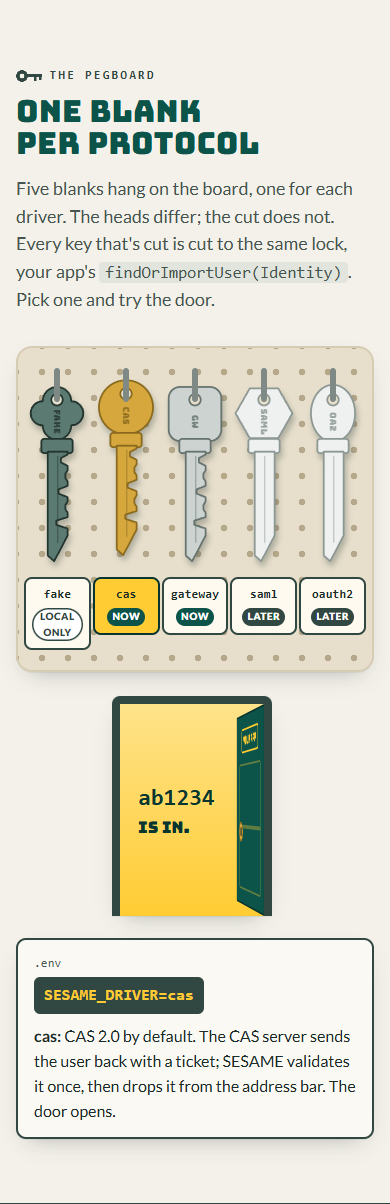
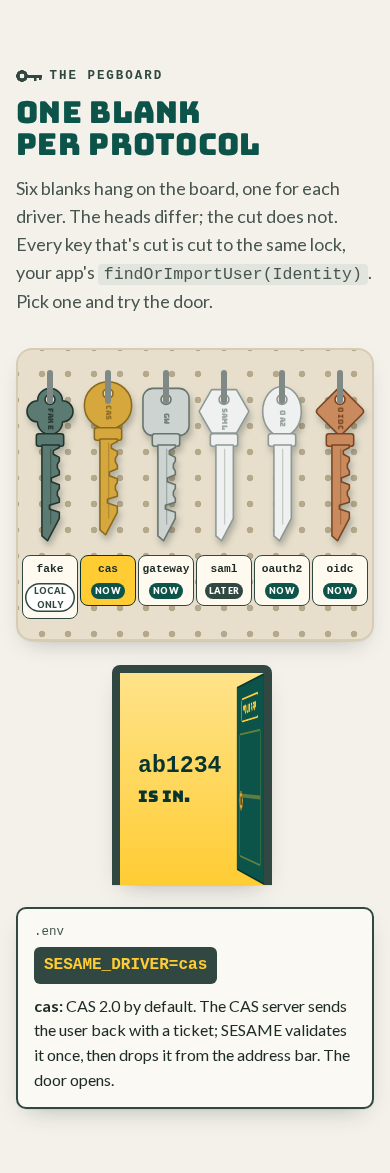
site: oidc peg on the pegboard, oauth2 chip fixed, README art regenerated
Adds the oidc key (copper, diamond head) and readout line, six across on the board (two rows of three under 380px), the oauth2 status chip on the current class, and regenerates the drivers badge, the pegboard crop and the gallery with alt text to match.

diff --git a/site/index.html b/site/index.html
@@ -28,7 +28,7 @@
 </script>
 </head>
 <body>
-<svg class="sprite" aria-hidden="true" focusable="false" width="0" height="0"><symbol id="key-fake" viewBox="0 0 260 90"><g class="k-body"><path d="M44,8 a17,17 0 0 1 17,17 a17,17 0 0 1 0,40 a17,17 0 0 1 -34,0 a17,17 0 0 1 0,-40 a17,17 0 0 1 17,-17 Z"/><rect x="80" y="23" width="20" height="44" rx="4"/><path d="M98,30 L102,30 L107,39.6 L113,39.6 L118,30 L124,30 L129,33.2 L135,33.2 L140,30 L146,30 L151,42.8 L157,42.8 L162,30 L168,30 L173,33.2 L179,33.2 L184,30 L190,30 L195,46.0 L201,46.0 L206,30 L216,30 L252,49 L244,58 L98,58 Z"/></g><circle class="k-hole" cx="25" cy="45" r="8"/><path class="k-groove" d="M104,44 H226"/><text class="k-stamp" x="56" y="49" text-anchor="middle">FAKE</text></symbol><symbol id="key-cas" viewBox="0 0 260 90"><g class="k-body"><circle cx="44" cy="45" r="38"/><rect x="80" y="23" width="20" height="44" rx="4"/><path d="M98,30 L102,30 L107,39.6 L113,39.6 L118,30 L124,30 L129,33.2 L135,33.2 L140,30 L146,30 L151,42.8 L157,42.8 L162,30 L168,30 L173,33.2 L179,33.2 L184,30 L190,30 L195,46.0 L201,46.0 L206,30 L216,30 L252,49 L244,58 L98,58 Z"/></g><circle class="k-hole" cx="25" cy="45" r="8"/><path class="k-groove" d="M104,44 H226"/><text class="k-stamp" x="56" y="49" text-anchor="middle">CAS</text></symbol><symbol id="key-gateway" viewBox="0 0 260 90"><g class="k-body"><rect x="7" y="8" width="76" height="74" rx="16"/><rect x="80" y="23" width="20" height="44" rx="4"/><path d="M98,30 L102,30 L107,39.6 L113,39.6 L118,30 L124,30 L129,33.2 L135,33.2 L140,30 L146,30 L151,42.8 L157,42.8 L162,30 L168,30 L173,33.2 L179,33.2 L184,30 L190,30 L195,46.0 L201,46.0 L206,30 L216,30 L252,49 L244,58 L98,58 Z"/></g><circle class="k-hole" cx="25" cy="45" r="8"/><path class="k-groove" d="M104,44 H226"/><text class="k-stamp" x="56" y="49" text-anchor="middle">GW</text></symbol><symbol id="key-saml" viewBox="0 0 260 90"><g class="k-body"><path d="M44,5 L79,25 L79,65 L44,85 L9,65 L9,25 Z"/><rect x="80" y="23" width="20" height="44" rx="4"/><path d="M98,30 L216,30 L252,49 L244,58 L98,58 Z"/></g><circle class="k-hole" cx="25" cy="45" r="8"/><path class="k-groove" d="M104,44 H226"/><text class="k-stamp" x="56" y="49" text-anchor="middle">SAML</text></symbol><symbol id="key-oauth2" viewBox="0 0 260 90"><g class="k-body"><ellipse cx="44" cy="45" rx="40" ry="31"/><rect x="80" y="23" width="20" height="44" rx="4"/><path d="M98,30 L216,30 L252,49 L244,58 L98,58 Z"/></g><circle class="k-hole" cx="25" cy="45" r="8"/><path class="k-groove" d="M104,44 H226"/><text class="k-stamp" x="56" y="49" text-anchor="middle">OA2</text></symbol></svg>
+<svg class="sprite" aria-hidden="true" focusable="false" width="0" height="0"><symbol id="key-fake" viewBox="0 0 260 90"><g class="k-body"><path d="M44,8 a17,17 0 0 1 17,17 a17,17 0 0 1 0,40 a17,17 0 0 1 -34,0 a17,17 0 0 1 0,-40 a17,17 0 0 1 17,-17 Z"/><rect x="80" y="23" width="20" height="44" rx="4"/><path d="M98,30 L102,30 L107,39.6 L113,39.6 L118,30 L124,30 L129,33.2 L135,33.2 L140,30 L146,30 L151,42.8 L157,42.8 L162,30 L168,30 L173,33.2 L179,33.2 L184,30 L190,30 L195,46.0 L201,46.0 L206,30 L216,30 L252,49 L244,58 L98,58 Z"/></g><circle class="k-hole" cx="25" cy="45" r="8"/><path class="k-groove" d="M104,44 H226"/><text class="k-stamp" x="56" y="49" text-anchor="middle">FAKE</text></symbol><symbol id="key-cas" viewBox="0 0 260 90"><g class="k-body"><circle cx="44" cy="45" r="38"/><rect x="80" y="23" width="20" height="44" rx="4"/><path d="M98,30 L102,30 L107,39.6 L113,39.6 L118,30 L124,30 L129,33.2 L135,33.2 L140,30 L146,30 L151,42.8 L157,42.8 L162,30 L168,30 L173,33.2 L179,33.2 L184,30 L190,30 L195,46.0 L201,46.0 L206,30 L216,30 L252,49 L244,58 L98,58 Z"/></g><circle class="k-hole" cx="25" cy="45" r="8"/><path class="k-groove" d="M104,44 H226"/><text class="k-stamp" x="56" y="49" text-anchor="middle">CAS</text></symbol><symbol id="key-gateway" viewBox="0 0 260 90"><g class="k-body"><rect x="7" y="8" width="76" height="74" rx="16"/><rect x="80" y="23" width="20" height="44" rx="4"/><path d="M98,30 L102,30 L107,39.6 L113,39.6 L118,30 L124,30 L129,33.2 L135,33.2 L140,30 L146,30 L151,42.8 L157,42.8 L162,30 L168,30 L173,33.2 L179,33.2 L184,30 L190,30 L195,46.0 L201,46.0 L206,30 L216,30 L252,49 L244,58 L98,58 Z"/></g><circle class="k-hole" cx="25" cy="45" r="8"/><path class="k-groove" d="M104,44 H226"/><text class="k-stamp" x="56" y="49" text-anchor="middle">GW</text></symbol><symbol id="key-saml" viewBox="0 0 260 90"><g class="k-body"><path d="M44,5 L79,25 L79,65 L44,85 L9,65 L9,25 Z"/><rect x="80" y="23" width="20" height="44" rx="4"/><path d="M98,30 L216,30 L252,49 L244,58 L98,58 Z"/></g><circle class="k-hole" cx="25" cy="45" r="8"/><path class="k-groove" d="M104,44 H226"/><text class="k-stamp" x="56" y="49" text-anchor="middle">SAML</text></symbol><symbol id="key-oauth2" viewBox="0 0 260 90"><g class="k-body"><ellipse cx="44" cy="45" rx="40" ry="31"/><rect x="80" y="23" width="20" height="44" rx="4"/><path d="M98,30 L216,30 L252,49 L244,58 L98,58 Z"/></g><circle class="k-hole" cx="25" cy="45" r="8"/><path class="k-groove" d="M104,44 H226"/><text class="k-stamp" x="56" y="49" text-anchor="middle">OA2</text></symbol><symbol id="key-oidc" viewBox="0 0 260 90"><g class="k-body"><path d="M48.2,9.2 L79.8,40.8 Q84,45 79.8,49.2 L48.2,80.8 Q44,85 39.8,80.8 L8.2,49.2 Q4,45 8.2,40.8 L39.8,9.2 Q44,5 48.2,9.2 Z"/><rect x="80" y="23" width="20" height="44" rx="4"/><path d="M98,30 L102,30 L107,39.6 L113,39.6 L118,30 L124,30 L129,33.2 L135,33.2 L140,30 L146,30 L151,42.8 L157,42.8 L162,30 L168,30 L173,33.2 L179,33.2 L184,30 L190,30 L195,46.0 L201,46.0 L206,30 L216,30 L252,49 L244,58 L98,58 Z"/></g><circle class="k-hole" cx="25" cy="45" r="8"/><path class="k-groove" d="M104,44 H226"/><text class="k-stamp" x="56" y="49" text-anchor="middle">OIDC</text></symbol></svg>
 <a class="wsu-skip-link" href="#main">Skip to content</a>
 
 <header class="shop-head">
@@ -118,7 +118,7 @@
       <div class="head">
         <p class="kicker">The pegboard</p>
         <h2 id="keys-title">One blank per protocol</h2>
-        <p>Five blanks hang on the board, one for each driver. The heads differ; the cut does not. Every key that's cut is cut to the same lock, your app's <code>findOrImportUser(Identity)</code>. Pick one and try the door.</p>
+        <p>Six blanks hang on the board, one for each driver. The heads differ; the cut does not. Every key that's cut is cut to the same lock, your app's <code>findOrImportUser(Identity)</code>. Pick one and try the door.</p>
       </div>
 
       <div class="shop">
@@ -147,7 +147,12 @@
           <button class="peg peg--blank" type="button" data-driver="oauth2" aria-pressed="false" style="--i:4">
             <span class="peg__hook" aria-hidden="true"></span>
             <svg class="peg__key" viewBox="0 0 90 260" aria-hidden="true" focusable="false"><use href="#key-oauth2" width="260" height="90" transform="translate(90,0) rotate(90)"/></svg>
-            <span class="peg__tag"><span class="peg__name">oauth2</span><span class="peg__status peg__status--later">Now</span></span>
+            <span class="peg__tag"><span class="peg__name">oauth2</span><span class="peg__status">Now</span></span>
+          </button>
+          <button class="peg" type="button" data-driver="oidc" aria-pressed="false" style="--i:5">
+            <span class="peg__hook" aria-hidden="true"></span>
+            <svg class="peg__key" viewBox="0 0 90 260" aria-hidden="true" focusable="false"><use href="#key-oidc" width="260" height="90" transform="translate(90,0) rotate(90)"/></svg>
+            <span class="peg__tag"><span class="peg__name">oidc</span><span class="peg__status">Now</span></span>
           </button>
         </div>
 

diff --git a/site/assets/sesame.css b/site/assets/sesame.css
@@ -39,6 +39,8 @@
   --brass-dark: #8a6a1e;
   --nickel: #ccd3d0;
   --nickel-dark: #66736e;
+  --copper: #c98a5e;         /* the oidc key */
+  --copper-dark: #7a4524;
   --tag: #fffaf0;
   --shadow: 0 1px 0 rgba(29, 43, 39, .06), 0 10px 24px -12px rgba(29, 43, 39, .35);
   --sign: "Bungee", "Lato", "Arial Black", sans-serif;
@@ -323,7 +325,7 @@ h3 { font-size: 1.2rem; font-weight: 900; }
   gap: clamp(24px, 4vw, 48px); align-items: start;
 }
 .board {
-  display: grid; grid-template-columns: repeat(5, minmax(0, 1fr)); gap: 8px;
+  display: grid; grid-template-columns: repeat(6, minmax(0, 1fr)); gap: 8px;
   padding: 26px 18px 22px;
   background-color: var(--peg);
   background-image: radial-gradient(circle, var(--peg-hole) 0 3px, transparent 3.6px);
@@ -337,6 +339,7 @@ h3 { font-size: 1.2rem; font-weight: 900; }
   --k: var(--brass); --kd: var(--brass-dark);
 }
 .peg[data-driver="gateway"] { --k: var(--nickel); --kd: var(--nickel-dark); }
+.peg[data-driver="oidc"] { --k: var(--copper); --kd: var(--copper-dark); }
 .peg[data-driver="fake"] { --k: #5b7a72; --kd: #23352f; --hole: var(--peg); }
 .peg--blank { --k: #eef1ef; --kd: #8d9894; }
 .peg__hook {
@@ -419,6 +422,7 @@ h3 { font-size: 1.2rem; font-weight: 900; }
 .door__key svg { display: block; width: 100%; height: auto; overflow: visible; }
 .door__key svg use { transform-origin: 50% 50%; transition: transform .35s ease; }
 .lock[data-driver="gateway"] .door__key { --k: var(--nickel); --kd: var(--nickel-dark); }
+.lock[data-driver="oidc"] .door__key { --k: var(--copper); --kd: var(--copper-dark); }
 .lock[data-driver="fake"] .door__key { --k: #5b7a72; --kd: #23352f; }
 .lock[data-driver="saml"] .door__key, .lock[data-driver="oauth2"] .door__key { --k: #eef1ef; --kd: #8d9894; }
 
@@ -725,10 +729,11 @@ h3 { font-size: 1.2rem; font-weight: 900; }
   .lock { grid-template-columns: minmax(0, 1fr); }
   .door { width: 160px; height: 220px; margin-left: 96px; margin-right: 0; }
   .door__key { width: 100px; }
-  .board { grid-template-columns: repeat(5, minmax(0, 1fr)); padding: 22px 8px 16px; gap: 2px; }
+  .board { grid-template-columns: repeat(6, minmax(0, 1fr)); padding: 22px 6px 16px; gap: 2px; }
   .peg { padding-inline: 0; }
-  .peg__name { font-size: .78rem; }
-  .peg__status { font-size: .62rem; padding: 1px 5px; }
+  .peg__tag { padding: 5px 2px 6px; border-width: 1.5px; }
+  .peg__name { font-size: .7rem; }
+  .peg__status { font-size: .56rem; padding: 1px 4px; letter-spacing: .02em; }
   .steps { grid-template-columns: minmax(0, 1fr); gap: 6px; }
   .step { padding: 8px 10px; font-size: .9rem; gap: 10px; }
   .step__n { width: 26px; height: 26px; font-size: .8rem; }
@@ -746,7 +751,9 @@ h3 { font-size: 1.2rem; font-weight: 900; }
 }
 @media (max-width: 380px) {
   .door { margin-left: 84px; width: 150px; }
-  .peg__status { font-size: .56rem; letter-spacing: .02em; }
+  /* Six across gets crowded on the smallest phones: two rows of three. */
+  .board { grid-template-columns: repeat(3, minmax(0, 1fr)); gap: 14px 6px; padding-inline: 8px; }
+  .peg__name { font-size: .78rem; }
   .copy-btn { min-width: 72px; padding: 0 12px; }
 }
 @media (max-width: 419px) {

diff --git a/site/assets/sesame.js b/site/assets/sesame.js
@@ -60,7 +60,8 @@
 
   /* ------------------------------------------------------------ 4. the lock */
   // Driver notes follow README.md ("Drivers", "The cas driver", "The gateway
-  // driver"). Drivers that are not built yet show no config line.
+  // driver", "oauth2 with Entra", "The oidc driver (Entra sign-in)"). Drivers
+  // that are not built yet show no config line.
   var DRIVERS = {
     fake: { line: "SESAME_DRIVER=fake", opens: true,
       note: "<strong>fake:</strong> local development and tests only. It refuses to boot in production, so this door only opens on your own machine." },
@@ -71,7 +72,9 @@
     saml: { line: null, opens: false,
       note: "<strong>saml:</strong> later, as a direct SAML service provider. The blank hangs on the board, but it isn't cut yet, so it won't turn." },
     oauth2: { line: "SESAME_DRIVER=oauth2", opens: true,
-      note: "<strong>oauth2:</strong> a JWT bearer token, checked against the issuer's key set (Entra first). For APIs. The door opens." }
+      note: "<strong>oauth2:</strong> a JWT bearer token, checked against the issuer's key set (Entra first). For APIs. The door opens." },
+    oidc: { line: "SESAME_DRIVER=oidc", opens: true,
+      note: "<strong>oidc:</strong> browser sign-in with OpenID Connect, Microsoft Entra ID first. Code flow with PKCE; the ID token is checked against the issuer's key set, and state and nonce work once. The only key that brings its own ID. The door opens." }
   };
 
   var lock = $("[data-lock]");

diff --git a/README.md b/README.md
@@ -7,7 +7,7 @@
 <p>
   <img src="docs/readme/badges/php.svg" alt="php ^8.3">
   <img src="docs/readme/badges/license.svg" alt="licence MIT">
-  <img src="docs/readme/badges/drivers.svg" alt="drivers: fake, cas, gateway">
+  <img src="docs/readme/badges/drivers.svg" alt="drivers: fake, cas, gateway, oauth2, oidc">
   <a href="https://github.com/waynestate/sesame/actions/workflows/ci.yml"><img src="https://github.com/waynestate/sesame/actions/workflows/ci.yml/badge.svg" alt="GitHub CI"></a>
 </p>
 
@@ -231,7 +231,7 @@ session at logout. Laravel apps use Laravel's own CSRF token instead: the
 <details>
 <summary><b>Walk round the shop</b>: the front page's counter, pegboard and duplicator</summary>
 <br>
-<div align="center"><img src="docs/readme/gallery.jpg" width="100%" alt="Three cuts of the front page: the hero with SESAME's mark on the pegboard; the pegboard 'One blank per protocol', with fake, cas and gateway marked now and saml and oauth2 marked later; and the duplicator 'Swap the blank. Keep the door.', which re-keys an app from cas to gateway and opens the door for ab1234."></div>
+<div align="center"><img src="docs/readme/gallery.jpg" width="100%" alt="Three cuts of the front page: the hero with SESAME's mark on the pegboard; the pegboard 'One blank per protocol', with fake marked local only, cas, gateway, oauth2 and oidc marked now, and saml marked later; and the duplicator 'Swap the blank. Keep the door.', which re-keys an app from cas to gateway and opens the door for ab1234."></div>
 </details>
 
 ## The cas driver

diff --git a/CHANGELOG.md b/CHANGELOG.md
@@ -9,6 +9,7 @@ and this project adheres to [Semantic Versioning](https://semver.org/spec/v2.0.0
 
 - Changed: project names written as words except acronyms.
 - Fixed: stale capability claims in the site and docs.
+- Changed: the site shows the oidc driver.
 
 ## [0.2.0] - 2026-10-29
 
